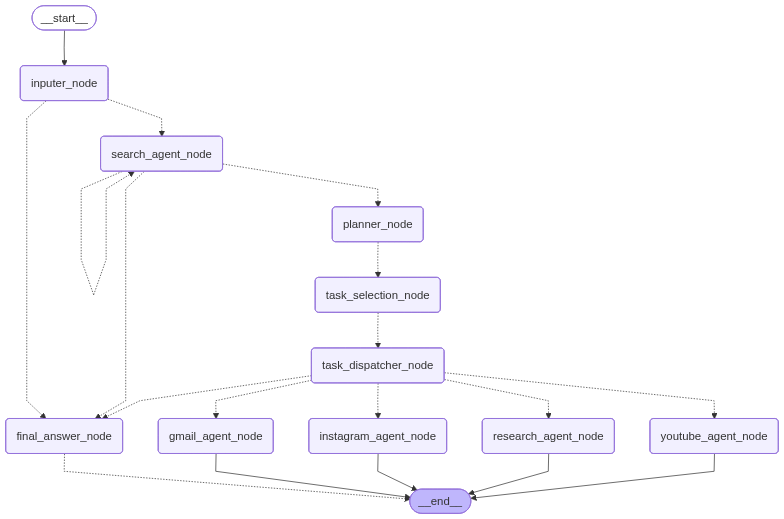
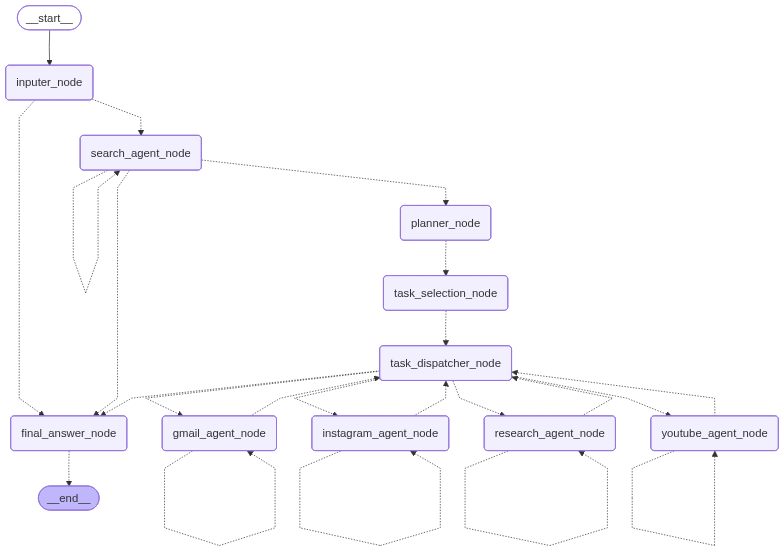
valid graph is generated

diff --git a/chatagent/agents/create_agent_tool.py b/chatagent/agents/create_agent_tool.py
@@ -11,7 +11,9 @@ from chatagent.node_registry import NodeRegistry
 from chatagent.model.tool_output import ToolOutput
 from langchain_community.callbacks import get_openai_callback
 from pydantic import BaseModel, Field
+from chatagent.config.init import stream_llm
 from typing import Literal
+
 
 
 callback_handler = OpenAICallbackHandler()
@@ -66,11 +68,7 @@ def make_agent_tool_node(
     )
 
 
-    async def agent_tool_node(state: State) -> Command:
-        # Import stream_llm for regular text generation with tools
-        from chatagent.config.init import stream_llm
-        
-        # Safety mechanism: Track consecutive agent calls to prevent infinite loops
+    async def agent_tool_node(state: State) -> Command[Literal["task_dispatcher_node",node_name]]:   
         agent_call_count = state.get("agent_call_count", 0) + 1
         max_agent_calls = 3  # Maximum consecutive calls before forcing completion
         
